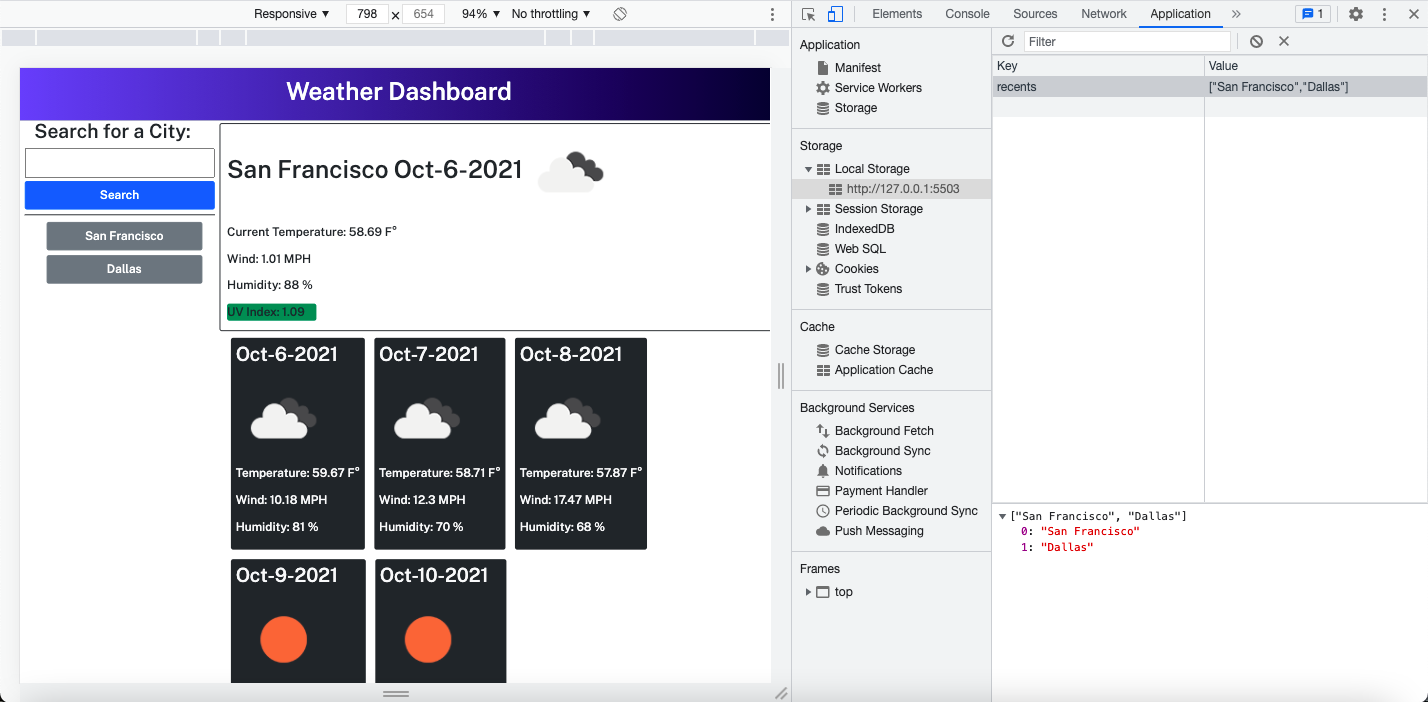
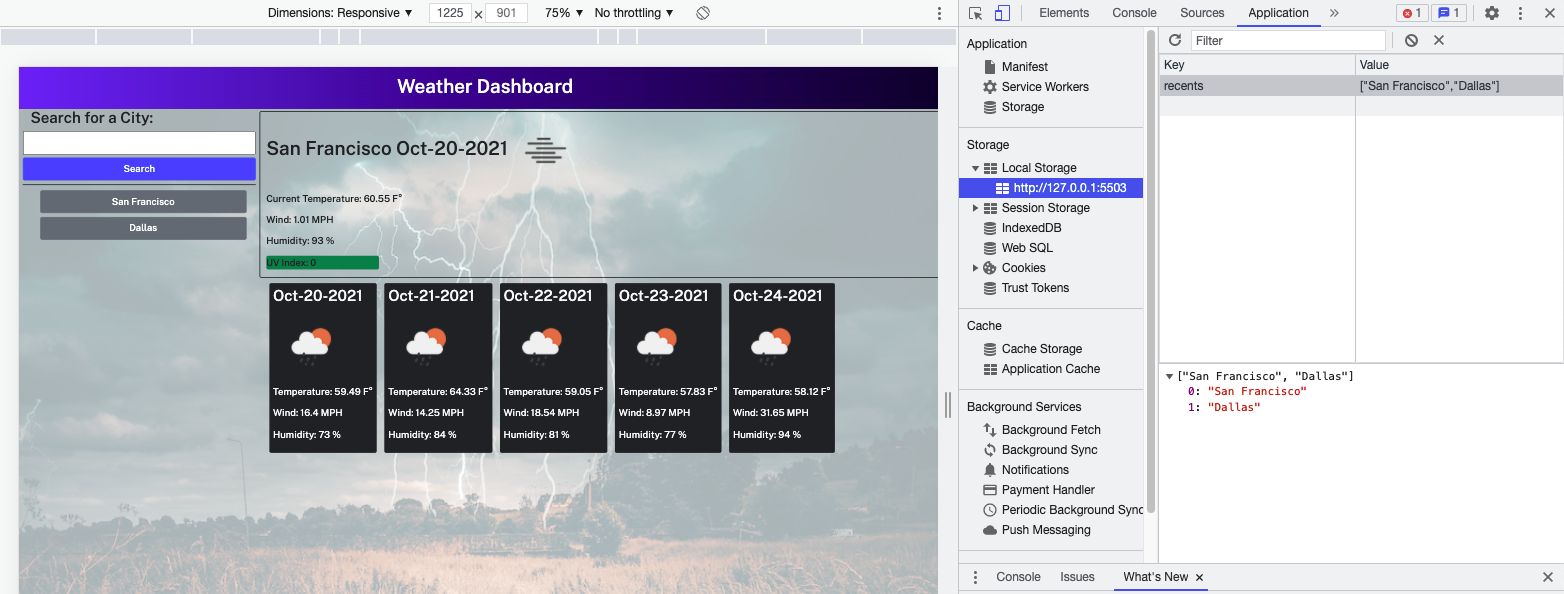
Added background image.

diff --git a/assets/css/style.css b/assets/css/style.css
@@ -1,14 +1,27 @@
 /* General framework for paper layout set. Font family set with Google Fonts*/
 * {
-    font-family: 'Public Sans', sans-serif;
+  font-family: "Public Sans", sans-serif;
 }
 
 /* Default font-size set */
 html {
-    font-size: 62.5%;
-    }
-
-header {
-    background-image: linear-gradient(to right, rgb(91, 91, 243), rgb(0, 0, 44));
+  font-size: 62.5%;
 }
-
+body {
+  position: relative;
+}
+#styling {
+  position: absolute;
+  height: 100%;
+  width: 100%;
+  background: url(../images/weather.png) no-repeat center center fixed;
+  -webkit-background-size: cover;
+  -moz-background-size: cover;
+  -o-background-size: cover;
+  background-size: cover;
+  opacity: 0.3;
+  z-index: -2;
+}
+header {
+  background-image: linear-gradient(to right, rgb(91, 91, 243), rgb(0, 0, 44));
+}

diff --git a/index.html b/index.html
@@ -18,6 +18,7 @@
 </head>
 <!-- Beginning of body of webpage. -->
 <body>
+    <div id="styling"></div>
     <header class="container-fluid text-white bg-dark text-center p-3 font-weight-bold">
         <h1>Weather Dashboard</h1>
     </header>
